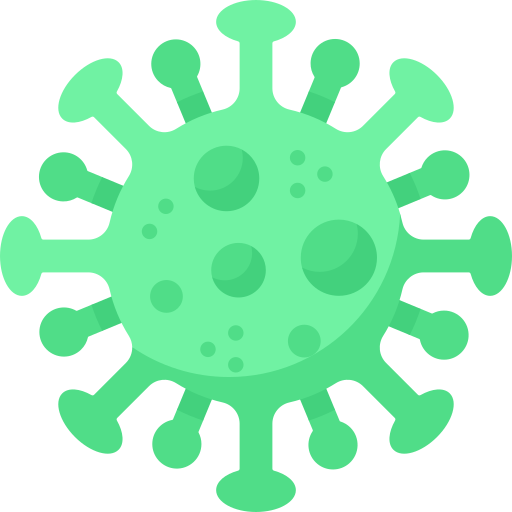
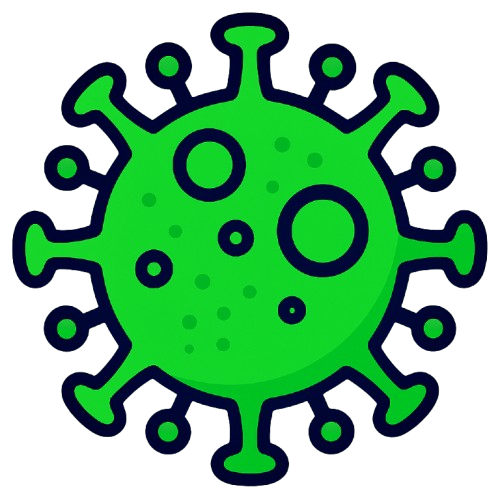
Añadiendo bordes a las imágenes

diff --git a/src/pages/enfermedades/Enfermedades.scss b/src/pages/enfermedades/Enfermedades.scss
@@ -240,8 +240,8 @@ $animation-delay-increment: 0.2s;
       background-color: $light;
       
       img {
-        max-height: 100%;
-        max-width: 100%;
+        max-height: 90%;
+        max-width: 90%;
         object-fit: contain;
         transition: transform 0.8s cubic-bezier(0.165, 0.84, 0.44, 1);
       }

diff --git a/src/pages/home/Home.scss b/src/pages/home/Home.scss
@@ -299,7 +299,7 @@ $transition-time: 0.3s;
       background: rgba(70, 130, 180, 0.05);
       padding: 1.2rem;
       border-radius: 10px;
-      border-left: 4px solid $dark;
+      border-left: 4px solid $primary;
       
       h4 {
         @extend .inter-bold;
